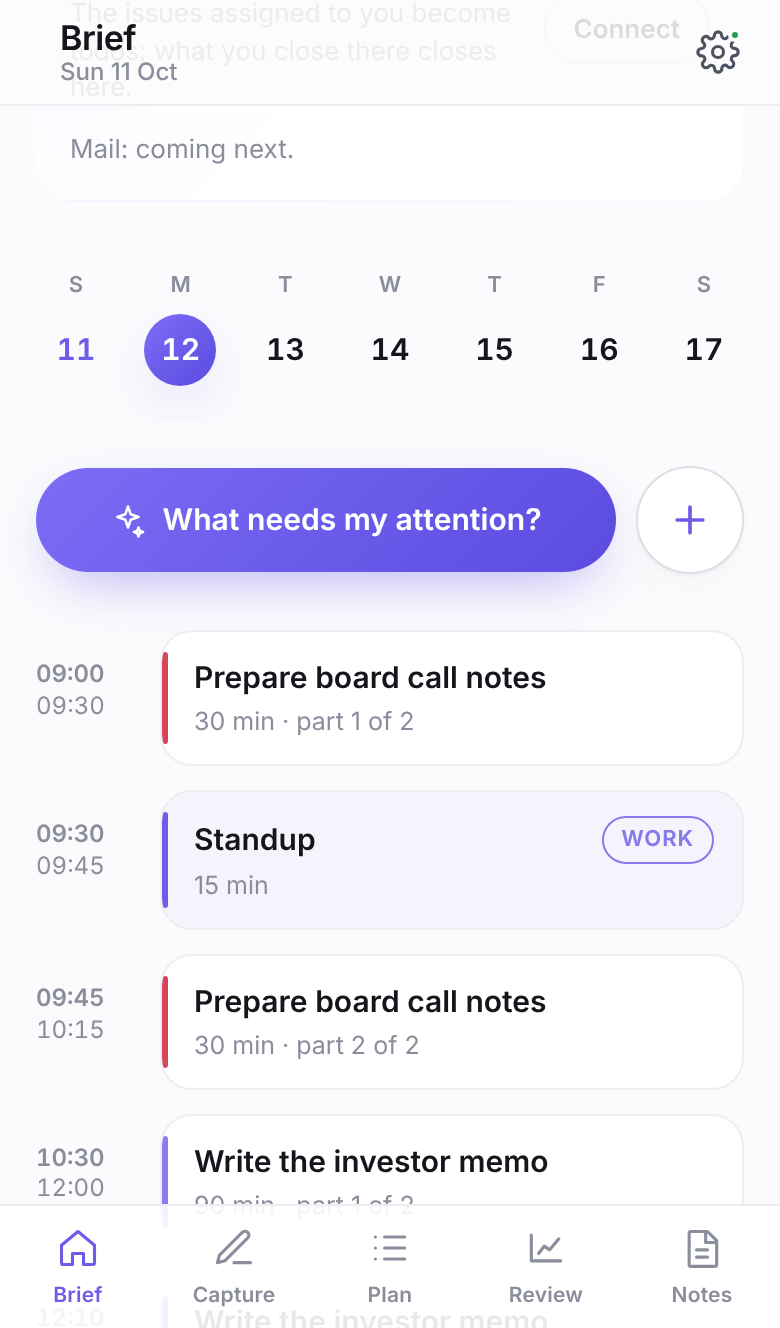
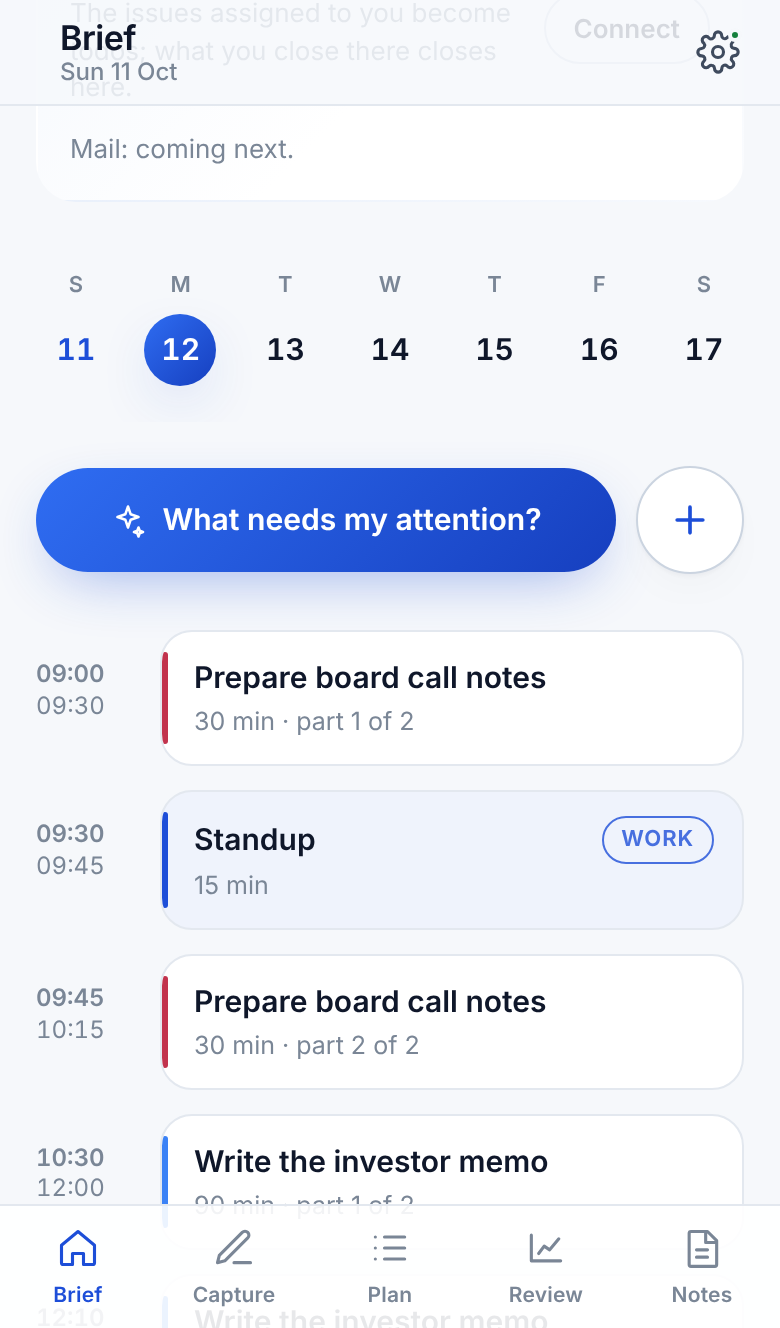
New palette and mark: ink, cool greys, one working blue, white
- Tokens for light and dark: near-black ink text, cool grey surfaces
  and lines, a deep blue accent with a blue gradient for primary
  actions, pale blue tints. Status colours stay semantic.
- A new logo: an ink tile with three note lines and a blue dot where
  the next line goes. SVG, PWA icons and the in-app mark updated.
- Theme colours in the manifest and meta tags follow; calendar colour
  palette now leads with blues and greys.
- Result screens use the blue gradient instead of green.
- All documentation screenshots regenerated.

Claude-Session: https://claude.ai/code/session_011vvXgAmNZx5X2tdoRYntuD

diff --git a/apps/web/src/styles.css b/apps/web/src/styles.css
@@ -1,29 +1,30 @@
 /* ---------- tokens ---------- */
+/* Palette: ink blacks, cool greys, one working blue, white surfaces. */
 :root {
-  --bg: #fbfbfd;
+  --bg: #f6f8fb;
   --surface: #ffffff;
-  --surface-2: #f4f4f8;
-  --tint: #f3f1ff;
-  --text: #15161c;
-  --text-2: #4e5160;
-  --muted: #8a8d9b;
-  --line: #ededf2;
-  --line-strong: #dedfe6;
-  --accent: #6c5ce7;
-  --accent-2: #8b7cf6;
+  --surface-2: #eef2f7;
+  --tint: #e9f0fb;
+  --text: #0f172a;
+  --text-2: #3f4b5e;
+  --muted: #7a8696;
+  --line: #e3e8ef;
+  --line-strong: #cbd4e0;
+  --accent: #1d4ed8;
+  --accent-2: #3b82f6;
   --accent-ink: #ffffff;
-  --accent-soft: #eeebff;
-  --grad: linear-gradient(135deg, #7c6cf5 0%, #5b4be0 100%);
-  --glow: 0 10px 30px -10px rgba(108, 92, 231, 0.55);
-  --ok: #1f9d55;
-  --ok-soft: #e7f7ee;
-  --warn: #c2770a;
-  --warn-soft: #fff4e3;
-  --danger: #d6455d;
-  --danger-soft: #fdeaee;
-  --high: #d6455d;
-  --low: #9aa0ad;
-  --shadow: 0 1px 2px rgba(20, 20, 40, 0.04), 0 10px 30px -18px rgba(20, 20, 40, 0.18);
+  --accent-soft: #dbe7fb;
+  --grad: linear-gradient(135deg, #2f6df2 0%, #163fbf 100%);
+  --glow: 0 10px 30px -10px rgba(29, 78, 216, 0.45);
+  --ok: #15803d;
+  --ok-soft: #e6f4ea;
+  --warn: #b45309;
+  --warn-soft: #fff3e0;
+  --danger: #c2334d;
+  --danger-soft: #fbe9ec;
+  --high: #c2334d;
+  --low: #94a0b2;
+  --shadow: 0 1px 2px rgba(15, 23, 42, 0.04), 0 10px 30px -18px rgba(15, 23, 42, 0.2);
   --radius: 20px;
   --radius-sm: 14px;
   --tab-h: 62px;
@@ -34,29 +35,29 @@
 }
 @media (prefers-color-scheme: dark) {
   :root {
-    --bg: #0b0b14;
-    --surface: #13131f;
-    --surface-2: #1b1b2a;
-    --tint: #1a1830;
-    --text: #ecedf5;
-    --text-2: #b4b7c8;
-    --muted: #7f829a;
-    --line: #22233a;
-    --line-strong: #2f3050;
-    --accent: #9d8dff;
-    --accent-2: #b9adff;
-    --accent-ink: #0b0b14;
-    --accent-soft: #241f45;
-    --grad: linear-gradient(135deg, #8f7dff 0%, #6c5ce7 100%);
-    --glow: 0 10px 34px -8px rgba(143, 125, 255, 0.6);
+    --bg: #0b0f17;
+    --surface: #121826;
+    --surface-2: #1a2232;
+    --tint: #132038;
+    --text: #e8edf4;
+    --text-2: #aeb8c8;
+    --muted: #6f7c90;
+    --line: #202a3a;
+    --line-strong: #2d3a4f;
+    --accent: #60a5fa;
+    --accent-2: #93c5fd;
+    --accent-ink: #0b0f17;
+    --accent-soft: #172a4a;
+    --grad: linear-gradient(135deg, #3b82f6 0%, #1d4ed8 100%);
+    --glow: 0 10px 34px -8px rgba(59, 130, 246, 0.55);
     --ok: #4ade80;
-    --ok-soft: #113021;
+    --ok-soft: #10301f;
     --warn: #f5b443;
     --warn-soft: #2f2410;
     --danger: #ff7a90;
     --danger-soft: #3a1620;
     --high: #ff7a90;
-    --low: #8d91a6;
+    --low: #8a95a8;
     --shadow: 0 1px 2px rgba(0, 0, 0, 0.5), 0 12px 32px -18px rgba(0, 0, 0, 0.9);
   }
 }
@@ -335,7 +336,7 @@ label.field > small { font-weight: 400; color: var(--muted); }
 .quiz-option { all: unset; box-sizing: border-box; display: block; width: 100%; cursor: pointer; padding: 20px 22px; border-radius: 22px; background: var(--surface); border: 1px solid var(--line); font-size: 17px; line-height: 1.35; color: var(--text); transition: transform 0.12s ease, border-color 0.12s ease; }
 .quiz-option:active { transform: scale(0.985); }
 .quiz-option.on { border-color: var(--accent); background: var(--tint); }
-.check-big { width: 72px; height: 72px; border-radius: 50%; background: var(--ok); color: #fff; display: grid; place-items: center; margin-bottom: 6px; }
+.check-big { width: 72px; height: 72px; border-radius: 50%; background: var(--grad); color: #fff; box-shadow: var(--glow); display: grid; place-items: center; margin-bottom: 6px; }
 .ob-center { flex: 1; display: flex; flex-direction: column; align-items: center; justify-content: center; gap: 10px; text-align: center; }
 .spinner.lg { width: 36px; height: 36px; border-width: 4px; margin-bottom: 8px; }
 .preview .t { font-size: 18px; font-weight: 650; margin: 4px 0 10px; }

diff --git a/apps/web/src/ui/Icon.tsx b/apps/web/src/ui/Icon.tsx
@@ -36,15 +36,9 @@ export function Icon({ name, size = 22, strokeWidth = 1.7 }: { name: keyof typeo
 export function Logo({ size = 28 }: { size?: number }) {
   return (
     <svg width={size} height={size} viewBox="0 0 512 512" aria-hidden="true">
-      <defs>
-        <linearGradient id="fn-g" x1="0" y1="0" x2="1" y2="1">
-          <stop offset="0" stopColor="#8f7dff" />
-          <stop offset="1" stopColor="#5b4be0" />
-        </linearGradient>
-      </defs>
-      <rect width="512" height="512" rx="116" fill="#0f0e1f" />
-      <circle cx="256" cy="256" r="150" fill="none" stroke="url(#fn-g)" strokeWidth="22" />
-      <circle cx="256" cy="256" r="78" fill="url(#fn-g)" />
+      <rect width="512" height="512" rx="116" fill="#0f172a" />
+      <path d="M136 176h240M136 256h192M136 336h120" stroke="#ffffff" strokeWidth="36" strokeLinecap="round" fill="none" />
+      <circle cx="356" cy="336" r="40" fill="#3b82f6" />
     </svg>
   );
 }

diff --git a/packages/core/src/application/calendars.test.ts b/packages/core/src/application/calendars.test.ts
@@ -47,7 +47,7 @@ describe("calendars", () => {
   it("connects a feed, pulls its events and keeps meetings out of the schedule", async () => {
     const { fn, fetched } = app({ "https://cal.example.com/work.ics": FEED });
     const out = await fn.connectCalendar({ label: "Work", url: "webcal://cal.example.com/work.ics" });
-    expect(out.calendar).toMatchObject({ id: "id1", label: "Work", color: "#6c5ce7", source: { kind: "ics", url: "https://cal.example.com/work.ics" } });
+    expect(out.calendar).toMatchObject({ id: "id1", label: "Work", color: "#1d4ed8", source: { kind: "ics", url: "https://cal.example.com/work.ics" } });
     expect(fetched).toEqual(["https://cal.example.com/work.ics"]);
     expect(out.synced).toEqual(["id1"]);
     const ws = await fn.workspace();

diff --git a/apps/web/index.html b/apps/web/index.html
@@ -4,8 +4,8 @@
     <meta charset="UTF-8" />
     <meta name="viewport" content="width=device-width, initial-scale=1, viewport-fit=cover" />
     <meta name="color-scheme" content="light dark" />
-    <meta name="theme-color" content="#fbfbfd" media="(prefers-color-scheme: light)" />
-    <meta name="theme-color" content="#0b0b14" media="(prefers-color-scheme: dark)" />
+    <meta name="theme-color" content="#f6f8fb" media="(prefers-color-scheme: light)" />
+    <meta name="theme-color" content="#0b0f17" media="(prefers-color-scheme: dark)" />
     <meta name="apple-mobile-web-app-capable" content="yes" />
     <meta name="apple-mobile-web-app-status-bar-style" content="default" />
     <meta name="apple-mobile-web-app-title" content="freenotes" />

diff --git a/packages/core/src/calendar/calendar.ts b/packages/core/src/calendar/calendar.ts
@@ -37,7 +37,7 @@ export interface CalendarState {
   readonly window?: TimeRange;
 }
 
-export const CALENDAR_PALETTE = ["#6c5ce7", "#00a884", "#e17055", "#0984e3", "#d63384", "#f39c12", "#6b7280"] as const;
+export const CALENDAR_PALETTE = ["#1d4ed8", "#0e7490", "#475569", "#2563eb", "#0f172a", "#64748b", "#7c3aed"] as const;
 
 export function emptyCalendarState(): CalendarState {
   return { calendars: [], events: [] };
